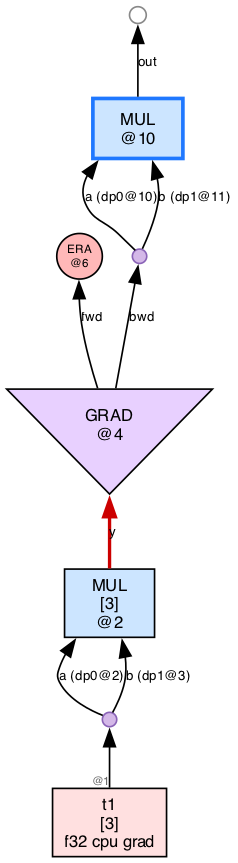
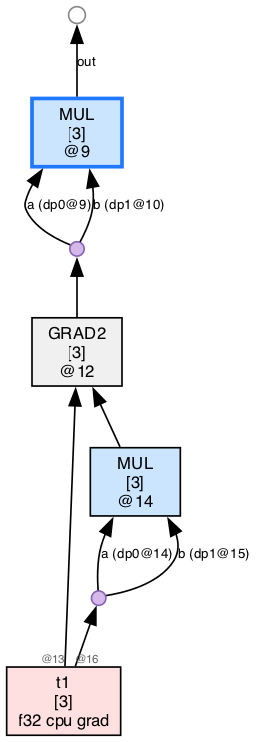
grad: migrate chained_compute test to thvm_grad_u

Changed region(s): [[0.0, 0.0, 0.9706, 1.0]]

diff --git a/test/test_grad_rules.m b/test/test_grad_rules.m
@@ -248,18 +248,14 @@ static int test_chained_compute(void) {
     thvm_dup(ctx, thvm_fresh_label(ctx), a, &a0, &a1);
     Term y = thvm_op(ctx, UOP_MUL, a0, a1);
 
-    Term fwd, g;
-    thvm_grad_pair_target(ctx, a, y, &fwd, &g);
-    thvm_spawn_detached_era(ctx, fwd);
-
-    /* DUP g so it can be used twice in MUL(g, g) */
+    Term g = thvm_grad_u(ctx, y, a);
     Term g0, g1;
     thvm_dup(ctx, thvm_fresh_label(ctx), g, &g0, &g1);
     Term z = thvm_op(ctx, UOP_MUL, g0, g1);
 
     thvm_eval(ctx, z);
     thvm_free(ctx);
-    const char *pre[]  = {"GRAD", "MUL"};
+    const char *pre[]  = {"GRAD2", "MUL"};
     int ok = topo_check("chained_compute", 0, pre, 2);
     return report("chained", ok);
 }
